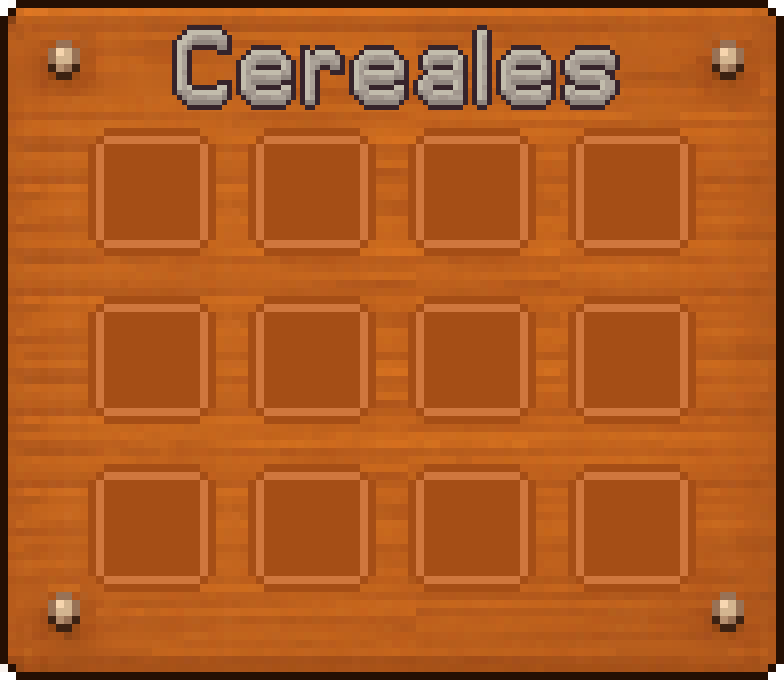
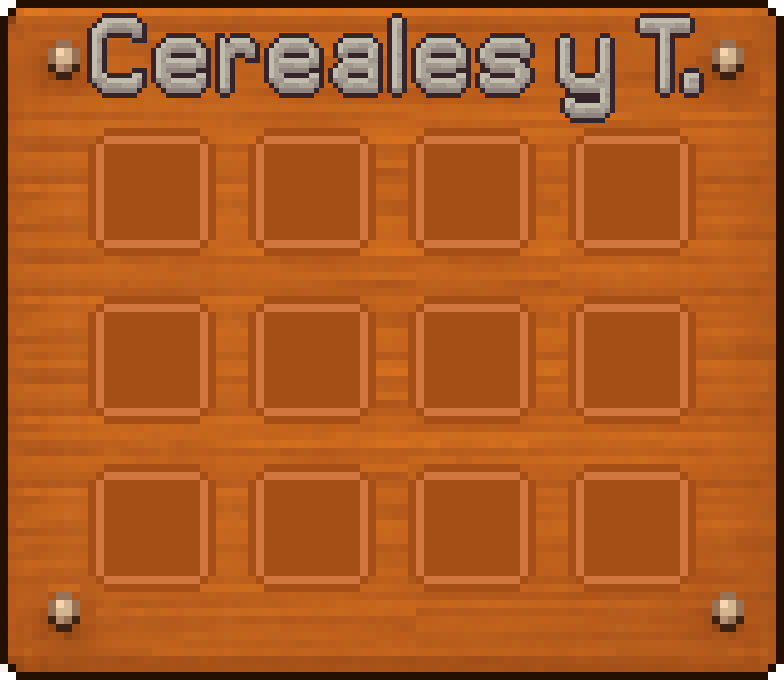
Nueva imagen de c y t & Logica de checkpoint al perder

Changed region(s): [[0.0918, 0.0, 0.9184, 0.1853]]

diff --git a/src/game/scenes/Nivel2Scene.ts b/src/game/scenes/Nivel2Scene.ts
@@ -38,6 +38,7 @@ export class Nivel2Scene extends Phaser.Scene {
         remainingCereales: FoodItem[];
         remainingLeguminosas: FoodItem[];
         seboPool: FoodItem[];
+        savedInventory?: { id: string, categoria: string }[];
     } | null = null;
 
     // Timer
@@ -226,6 +227,7 @@ export class Nivel2Scene extends Phaser.Scene {
             remainingCereales: FoodItem[];
             remainingLeguminosas: FoodItem[];
             seboPool: FoodItem[];
+            savedInventory?: { id: string, categoria: string }[];
         } | undefined;
 
         if (checkpoint) {
@@ -235,6 +237,11 @@ export class Nivel2Scene extends Phaser.Scene {
             this.seboPool             = [...checkpoint.seboPool];
             // startNextWave increments waveNumber, so set to one before the saved wave
             this.waveNumber = checkpoint.waveNumber - 1;
+
+            if (checkpoint.savedInventory) {
+                this.restoreInventory(checkpoint.savedInventory);
+            }
+
             this.time.delayedCall(400, () => this.startNextWave());
         } else if (this.registry.get('introCompleted_Nivel2')) {
             this.time.delayedCall(400, () => this.initWavePools());
@@ -270,10 +277,11 @@ export class Nivel2Scene extends Phaser.Scene {
 
         // Save checkpoint BEFORE splicing the pools
         this.waveCheckpoint = {
-            waveNumber:          this.waveNumber,
+            waveNumber:           this.waveNumber,
             remainingCereales:    [...this.remainingCereales],
             remainingLeguminosas: [...this.remainingLeguminosas],
             seboPool:             [...this.seboPool],
+            savedInventory:       this.placedFoods.map(f => ({ id: f.texture.key, categoria: f.getData("categoria") as string }))
         };
 
         // Reset foodContainer scroll position
@@ -763,7 +771,8 @@ export class Nivel2Scene extends Phaser.Scene {
     }
 
     private findNearestFreeInventorySlot(
-        panel: Phaser.GameObjects.Image, nearX: number, nearY: number,
+        panel: Phaser.GameObjects.Image,
+        nearX: number, nearY: number,
         excluding?: Phaser.GameObjects.Image
     ): { x: number; y: number } | null {
         const slots    = this.getInventorySlotPositions(panel);
@@ -777,6 +786,45 @@ export class Nivel2Scene extends Phaser.Scene {
             if (dist < bestDist) { bestDist = dist; best = slot; }
         }
         return best;
+    }
+
+    private restoreInventory(saved: { id: string, categoria: string }[]) {
+        saved.forEach(item => {
+            const targetPanel = item.categoria === 'cereal' ? this.segmentoCereales : this.segmentoLeguminosas;
+            
+            const sprite = this.add.image(0, 0, item.id)
+                .setDisplaySize(FOOD_ITEM_SIZE, FOOD_ITEM_SIZE)
+                .setAlpha(1);
+            
+            const nameES = nutritionalInfo.find(n => n.id === item.id)?.nameES || item.id;
+            const texto = this.add.text(0, FOOD_LABEL_OFFSET, nameES, {
+                fontSize: '15px',
+                color: '#ffffff',
+                fontStyle: 'bold',
+                fontFamily: 'Arial, sans-serif',
+                stroke: '#5E412F',
+                strokeThickness: 4,
+            }).setOrigin(0.5).setAlpha(1);
+
+            sprite.setData("categoria", item.categoria);
+            sprite.setData("texto", texto);
+            
+            const slot = this.findNearestFreeInventorySlot(targetPanel, targetPanel.x, targetPanel.y);
+            if (slot) {
+                sprite.x = slot.x;
+                sprite.y = slot.y;
+                texto.x = slot.x;
+                texto.y = slot.y + FOOD_LABEL_OFFSET;
+                
+                sprite.setData("placed", true);
+                sprite.setData("basket", targetPanel);
+                sprite.setData("slotRelY", sprite.y - targetPanel.y);
+                this.placedFoods.push(sprite);
+                
+                this.children.bringToTop(sprite);
+                this.children.bringToTop(texto);
+            }
+        });
     }
 
 

diff --git a/src/game/scenes/Nivel1Scene.ts b/src/game/scenes/Nivel1Scene.ts
@@ -38,6 +38,7 @@ export class Nivel1Scene extends Phaser.Scene {
         remainingVerduras: FoodItem[];
         remainingFrutas: FoodItem[];
         seboPool: FoodItem[];
+        savedInventory?: { id: string, categoria: string }[];
     } | null = null;
 
     // Timer
@@ -264,6 +265,7 @@ export class Nivel1Scene extends Phaser.Scene {
             remainingVerduras: FoodItem[];
             remainingFrutas: FoodItem[];
             seboPool: FoodItem[];
+            savedInventory?: { id: string, categoria: string }[];
         } | undefined;
 
         if (checkpoint) {
@@ -273,6 +275,11 @@ export class Nivel1Scene extends Phaser.Scene {
             this.seboPool          = [...checkpoint.seboPool];
             // startNextWave increments waveNumber, so set to one before the saved wave
             this.waveNumber = checkpoint.waveNumber - 1;
+            
+            if (checkpoint.savedInventory) {
+                this.restoreInventory(checkpoint.savedInventory);
+            }
+            
             this.time.delayedCall(400, () => this.startNextWave());
         } else if (this.registry.get('tutorialCompleted_Nivel1')) {
             // INTRO PLATÓN → luego oleadas → luego tutorial mano
@@ -314,6 +321,7 @@ export class Nivel1Scene extends Phaser.Scene {
             remainingVerduras: [...this.remainingVerduras],
             remainingFrutas:   [...this.remainingFrutas],
             seboPool:          [...this.seboPool],
+            savedInventory:    this.placedFoods.map(f => ({ id: f.texture.key, categoria: f.getData("categoria") as string }))
         };
 
         // Reset foodContainer scroll position
@@ -1003,6 +1011,45 @@ export class Nivel1Scene extends Phaser.Scene {
             if (dist < bestDist) { bestDist = dist; best = slot; }
         }
         return best;
+    }
+
+    private restoreInventory(saved: { id: string, categoria: string }[]) {
+        saved.forEach(item => {
+            const targetPanel = item.categoria === 'verdura' ? this.segmentoVerduras : this.segmentoFrutas;
+            
+            const sprite = this.add.image(0, 0, item.id)
+                .setDisplaySize(FOOD_ITEM_SIZE, FOOD_ITEM_SIZE)
+                .setAlpha(1);
+            
+            const nameES = nutritionalInfo.find(n => n.id === item.id)?.nameES || item.id;
+            const texto = this.add.text(0, FOOD_LABEL_OFFSET, nameES, {
+                fontSize: '15px',
+                color: '#ffffff',
+                fontStyle: 'bold',
+                fontFamily: 'Arial, sans-serif',
+                stroke: '#5E412F',
+                strokeThickness: 4,
+            }).setOrigin(0.5).setAlpha(1);
+
+            sprite.setData("categoria", item.categoria);
+            sprite.setData("texto", texto);
+            
+            const slot = this.findNearestFreeInventorySlot(targetPanel, targetPanel.x, targetPanel.y);
+            if (slot) {
+                sprite.x = slot.x;
+                sprite.y = slot.y;
+                texto.x = slot.x;
+                texto.y = slot.y + FOOD_LABEL_OFFSET;
+                
+                sprite.setData("placed", true);
+                sprite.setData("basket", targetPanel);
+                sprite.setData("slotRelY", sprite.y - targetPanel.y);
+                this.placedFoods.push(sprite);
+                
+                this.children.bringToTop(sprite);
+                this.children.bringToTop(texto);
+            }
+        });
     }
 
     // ─── UPDATE ───────────────────────────────────────────────────────────────

diff --git a/src/game/scenes/Nivel3Scene.ts b/src/game/scenes/Nivel3Scene.ts
@@ -33,6 +33,7 @@ export class Nivel3Scene extends Phaser.Scene {
         waveNumber: number;
         remainingAnimal: FoodItem[];
         junkPool: FoodItem[];
+        savedInventory?: { id: string, categoria: string }[];
     } | null = null;
 
     // Timer
@@ -181,6 +182,7 @@ export class Nivel3Scene extends Phaser.Scene {
             waveNumber: number;
             remainingAnimal: FoodItem[];
             junkPool: FoodItem[];
+            savedInventory?: { id: string, categoria: string }[];
         } | undefined;
 
         if (checkpoint) {
@@ -189,6 +191,11 @@ export class Nivel3Scene extends Phaser.Scene {
             this.junkPool        = [...checkpoint.junkPool];
             // startNextWave increments waveNumber, so set to one before the saved wave
             this.waveNumber = checkpoint.waveNumber - 1;
+            
+            if (checkpoint.savedInventory) {
+                this.restoreInventory(checkpoint.savedInventory);
+            }
+            
             this.time.delayedCall(400, () => this.startNextWave());
         } else if (this.registry.get('introCompleted_Nivel3')) {
             this.time.delayedCall(400, () => this.initWavePools());
@@ -225,6 +232,7 @@ export class Nivel3Scene extends Phaser.Scene {
             waveNumber:     this.waveNumber,
             remainingAnimal: [...this.remainingAnimal],
             junkPool:        [...this.junkPool],
+            savedInventory:  this.placedFoods.map(f => ({ id: f.texture.key, categoria: f.getData("categoria") as string }))
         };
 
         // Reset foodContainer scroll position
@@ -696,6 +704,47 @@ export class Nivel3Scene extends Phaser.Scene {
             if (dist < bestDist) { bestDist = dist; best = slot; }
         }
         return best;
+    }
+
+    private restoreInventory(saved: { id: string, categoria: string }[]) {
+        saved.forEach(item => {
+            const targetPanel = this.animalSection;
+            
+            const sprite = this.add.image(0, 0, item.id)
+                .setDisplaySize(FOOD_ITEM_SIZE, FOOD_ITEM_SIZE)
+                .setAlpha(1);
+            
+            const nameES = nutritionalInfo.find(n => n.id === item.id)?.nameES || item.id;
+            const texto = this.add.text(0, FOOD_LABEL_OFFSET, nameES, {
+                fontSize: '15px',
+                color: '#ffffff',
+                fontStyle: 'bold',
+                fontFamily: 'Arial, sans-serif',
+                stroke: '#5E412F',
+                strokeThickness: 4,
+            }).setOrigin(0.5).setAlpha(1);
+
+            sprite.setData("categoria", item.categoria);
+            sprite.setData("texto", texto);
+            
+            const slot = this.findNearestFreeInventorySlot(targetPanel, targetPanel.x, targetPanel.y);
+            if (slot) {
+                sprite.x = slot.x;
+                sprite.y = slot.y;
+                texto.x = slot.x;
+                texto.y = slot.y + FOOD_LABEL_OFFSET;
+                
+                sprite.setData("placed", true);
+                sprite.setData("basket", targetPanel);
+                sprite.setData("slotRelY", sprite.y - targetPanel.y);
+                this.placedFoods.push(sprite);
+                
+                sprite.setDepth(3);
+                texto.setDepth(3);
+                this.children.bringToTop(sprite);
+                this.children.bringToTop(texto);
+            }
+        });
     }
 
 
